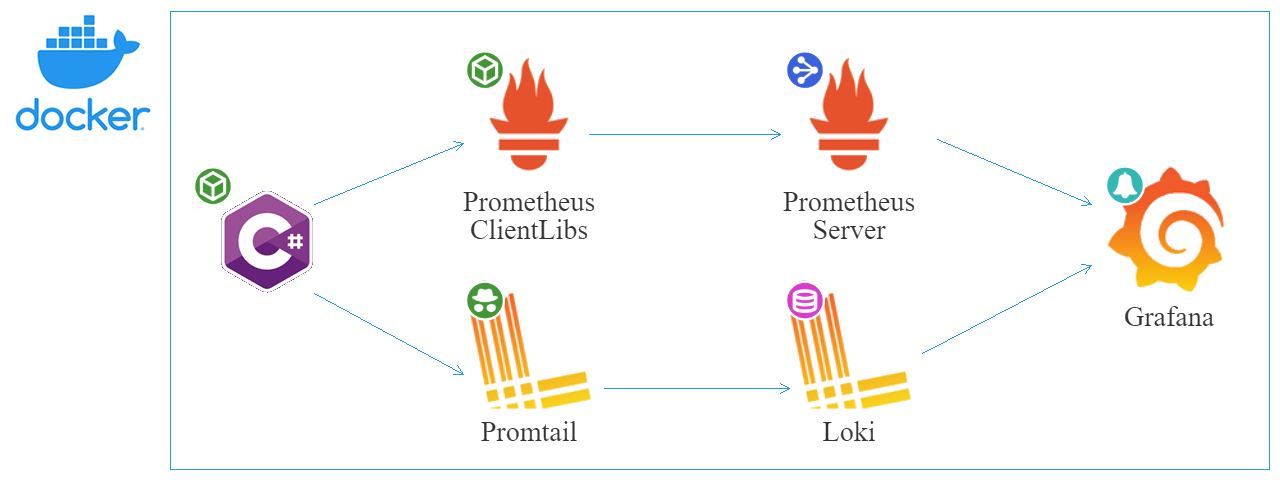
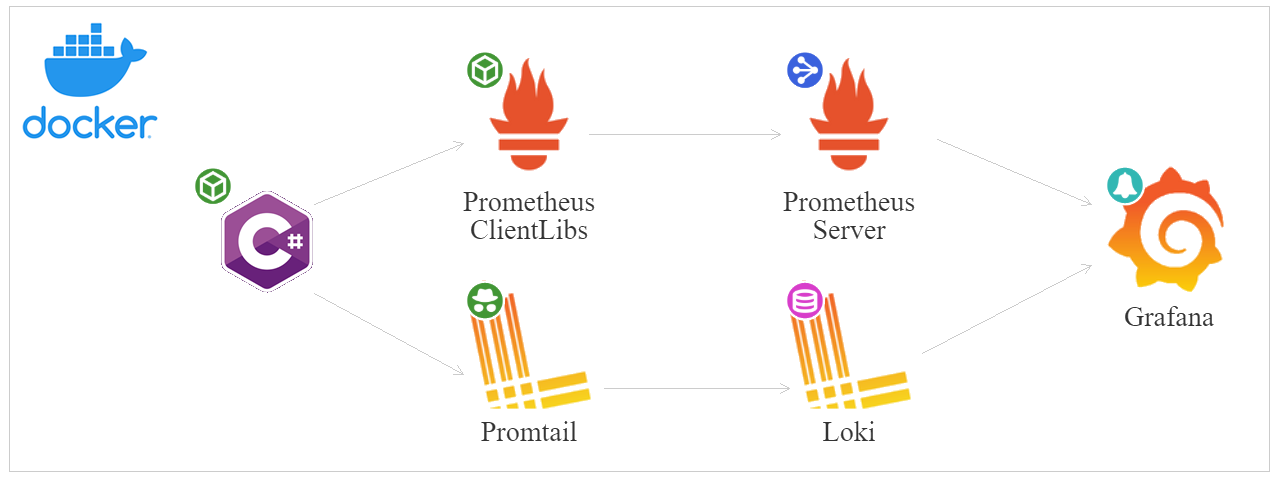
Melhorias no README.md e no diagrama do ambiente

Changed region(s): [[0.125, 0.9688, 1.0, 1.0], [0.125, 0.0, 1.0, 0.0312], [0.0, 0.0312, 0.125, 0.3125]]

diff --git a/README.md b/README.md
@@ -1,5 +1,5 @@
-# prometheus-net
-Monitoramento de aplicações .NET Core com Prometheus
+# metricas-logs
+Monitoramento de métricas e centralização de logs em aplicações .NET Core
 
 <img src="https://github.com/GlerystonMatos/prometheus-net/blob/main/openAPM-Landscape.png" />
 
